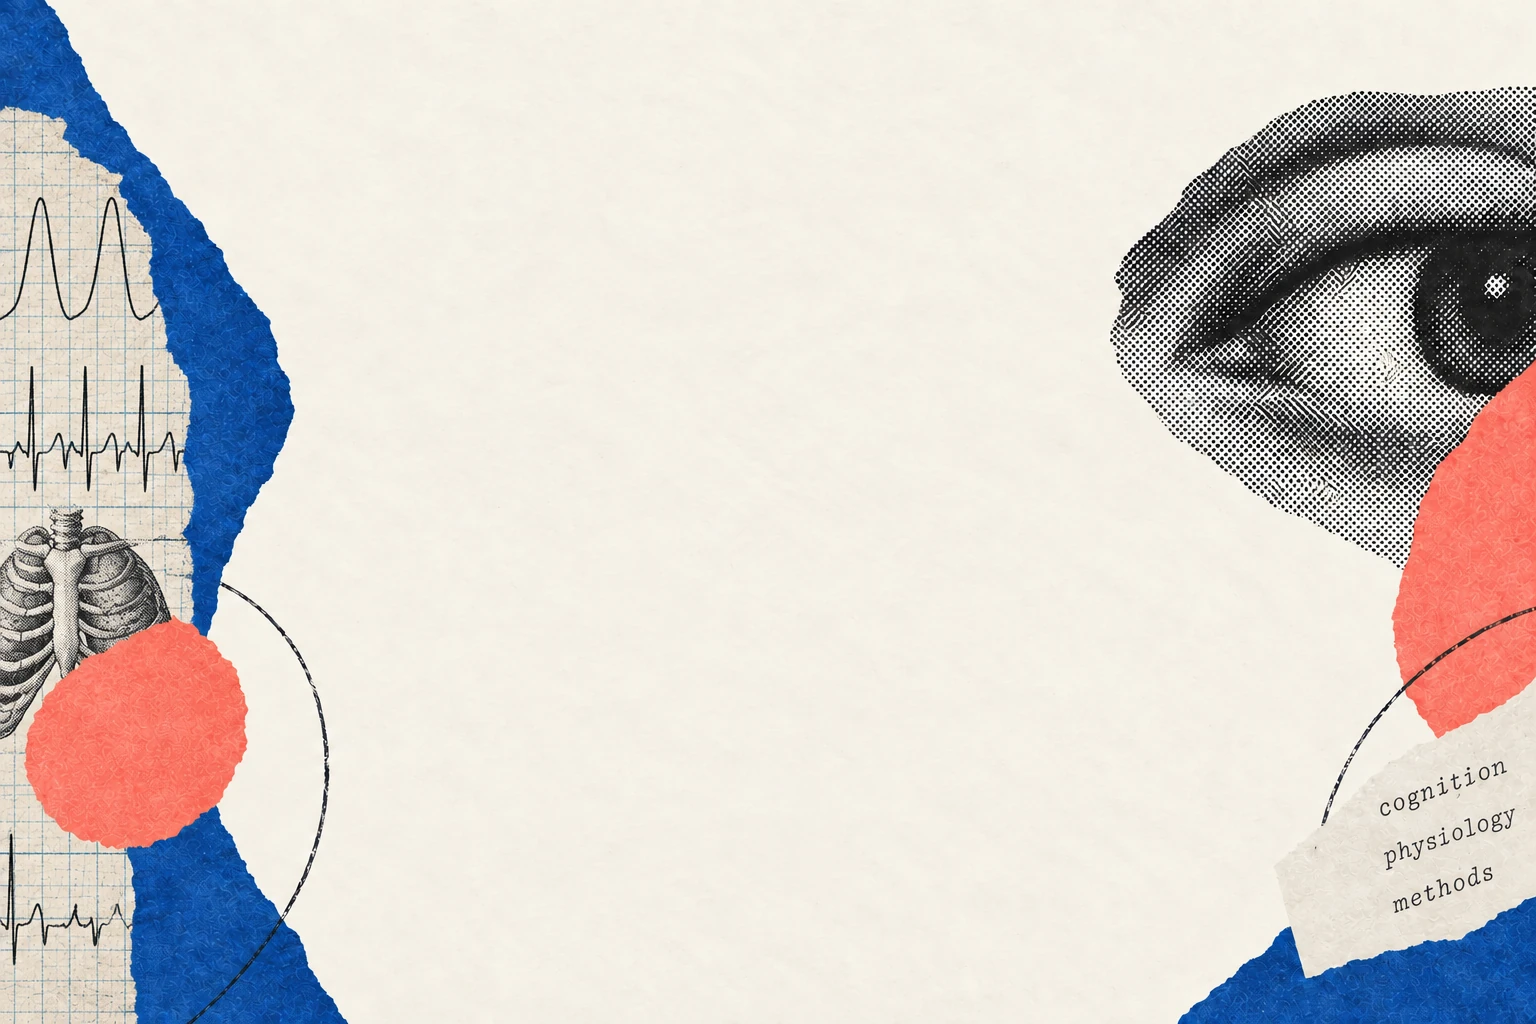
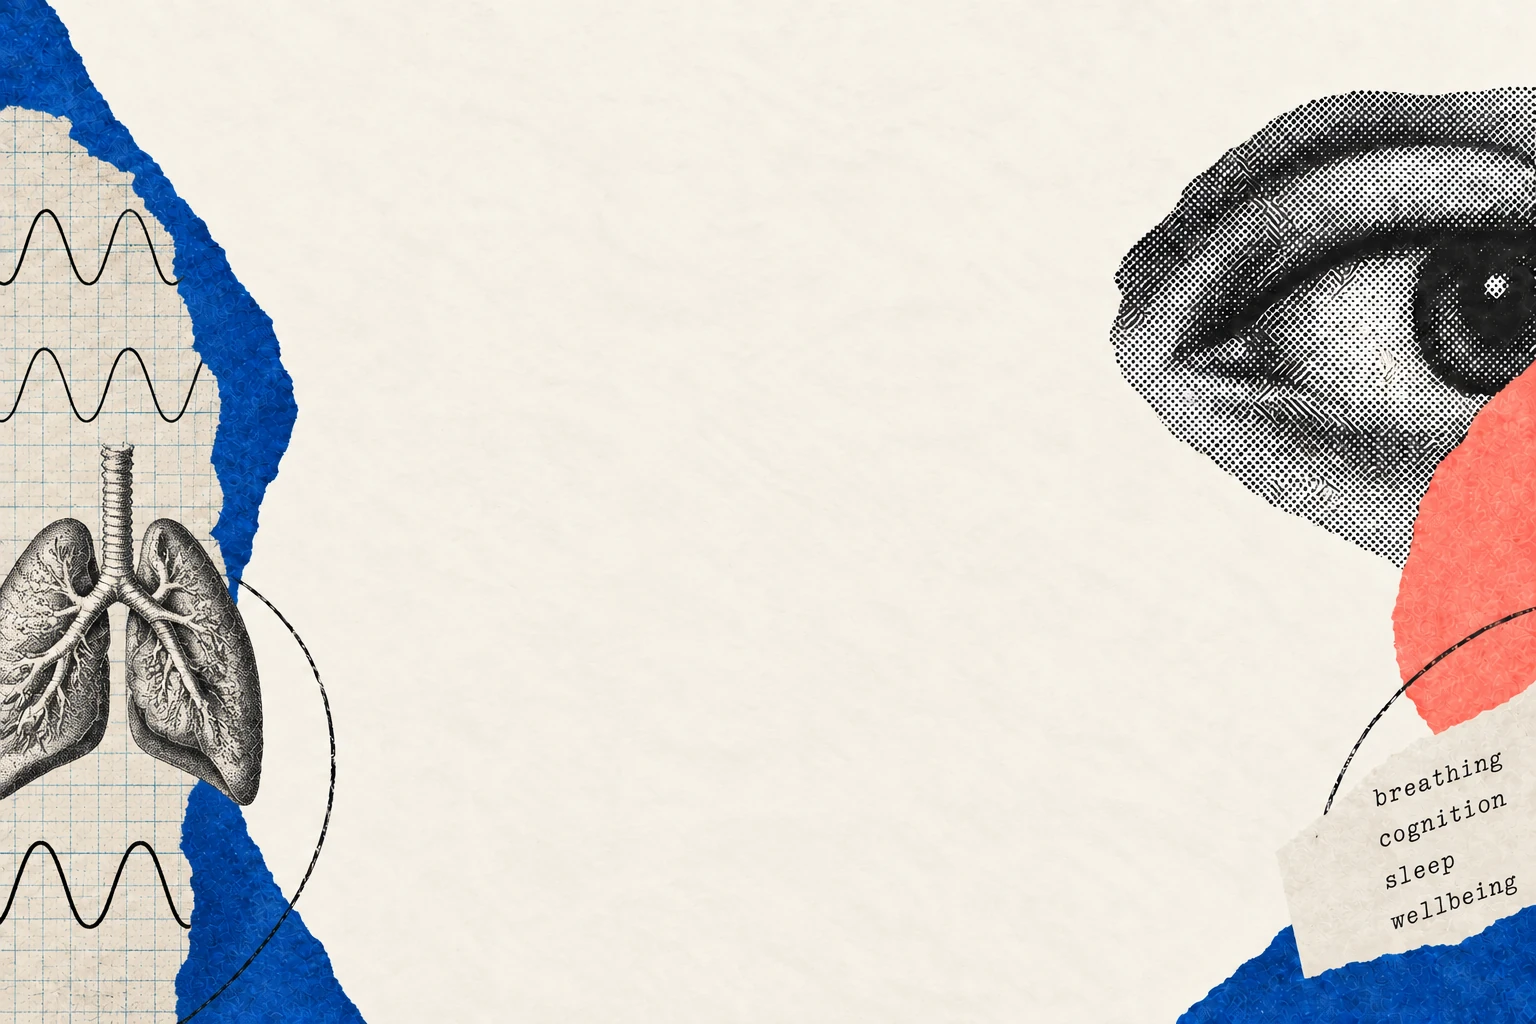
feat: rename Breathing and Cognition Lab and refresh collages

diff --git a/css/main.scss b/css/main.scss
@@ -151,8 +151,8 @@ h1 { font-size: clamp(42px, 4.2vw, 64px); font-weight: 600; letter-spacing: -.03
 .page-publications .prose > p { margin-bottom: 1.5em; }
 .page-research-students { --reading-width: 49%; --reading-left: 26%; }
 .page-research-students .prose > ul { font-size: 17px; }
-.page-cogphys-lab { --reading-width: 43%; --reading-left: 27%; }
-.page-cogphys-lab .page-hero { padding-top: 70px; }
+.page-breathing-and-cognition-lab { --reading-width: 43%; --reading-left: 27%; }
+.page-breathing-and-cognition-lab .page-hero { padding-top: 70px; }
 .page-teaching { --reading-width: 62%; --reading-left: 11%; }
 .site-footer .container { width: var(--reading-width); max-width: 960px; margin-left: var(--reading-left); }
 .footer-bottom { flex-direction: column; gap: 5px; }
@@ -162,7 +162,7 @@ h1 { font-size: clamp(42px, 4.2vw, 64px); font-weight: 600; letter-spacing: -.03
   .nav-links { gap: 8px 20px; }
   .prose { font-size: 18px; }
   .page-hero { padding-top: 36px; }
-  .page-cogphys-lab .page-hero { padding-top: 40px; }
+  .page-breathing-and-cognition-lab .page-hero { padding-top: 40px; }
 }
 @media (max-width: 700px) {
   body { --reading-width: calc(100% - 72px) !important; --reading-left: 36px !important; }

diff --git a/lab.md b/lab.md
@@ -1,17 +1,17 @@
 ---
 layout: page
-title: CogPhys Lab
+title: Breathing and Cognition Lab
 permalink: /lab/
 published: true
 ---
 
-The Cognition and Physiology Lab (CogPhys) brings together research on how human cognition relates to physiological state, alongside work on research methods and AI at the University of Hull.
+The Breathing and Cognition Lab investigates how breathing and bodily states interact with human cognition, sleep, and wellbeing at the University of Hull.
 
-Our work includes sleep, breathing, memory, language, open science, and the psychology of AI. See [Research]({{ '/research/' | relative_url }}) for current projects and [Research students]({{ '/research-students/' | relative_url }}) for the people in the lab.
+Alongside our core work on respiration and cognition, the group studies memory consolidation, language processing, quantitative research methods, and the psychology of AI. See [Research]({{ '/research/' | relative_url }}) for current projects and [Research students]({{ '/research-students/' | relative_url }}) for the people in the group.
 
 ## Methods
 
-We combine behavioural experiments, respiratory and physiological recording, and eye tracking with analyses of large open physiological and neuroimaging datasets.
+We combine behavioural experiments, respiratory recording, and eye tracking with analyses of large open physiological and neuroimaging datasets.
 
 ## Working with us
 

diff --git a/revamp/homepage-artwork.md b/revamp/homepage-artwork.md
@@ -24,8 +24,12 @@ Margin collage with engraved lungs on the left, a cropped brain on the right, ph
 
 Converted from the supplied `research.png` to RGB WebP at the existing 1536 × 1024 dimensions, quality 90.
 
-## CogPhys Lab background: `images/collage/lab.webp`
+## Breathing and Cognition Lab background: `images/collage/lab.webp`
 
 Margin collage with respiratory and cardiac traces, an engraved chest and a large eye, with the words “cognition”, “physiology” and “methods”. Torn cobalt blue and coral paper frame the cream reading area.
 
-Converted from the supplied `lab.png` to RGB WebP at the existing 1536 × 1024 dimensions, quality 90. The page keeps `/lab/`; its title is now “CogPhys Lab” and its layout selectors use `.page-cogphys-lab`.
+The page keeps `/lab/`; its title is now “Breathing and Cognition Lab” and its layout selectors use `.page-breathing-and-cognition-lab`.
+
+## Margin collage refresh, 31 October 2026
+
+Replaced the lab, Research and Research students backgrounds with the approved `lab_v2.png`, `research_v2.png` and `students_v2.png` supplied in `/tmp/website_revamp_assets/` on Legion. Each was converted to its corresponding file in `images/collage/` as RGB WebP at 1536 × 1024 pixels, quality 90.
